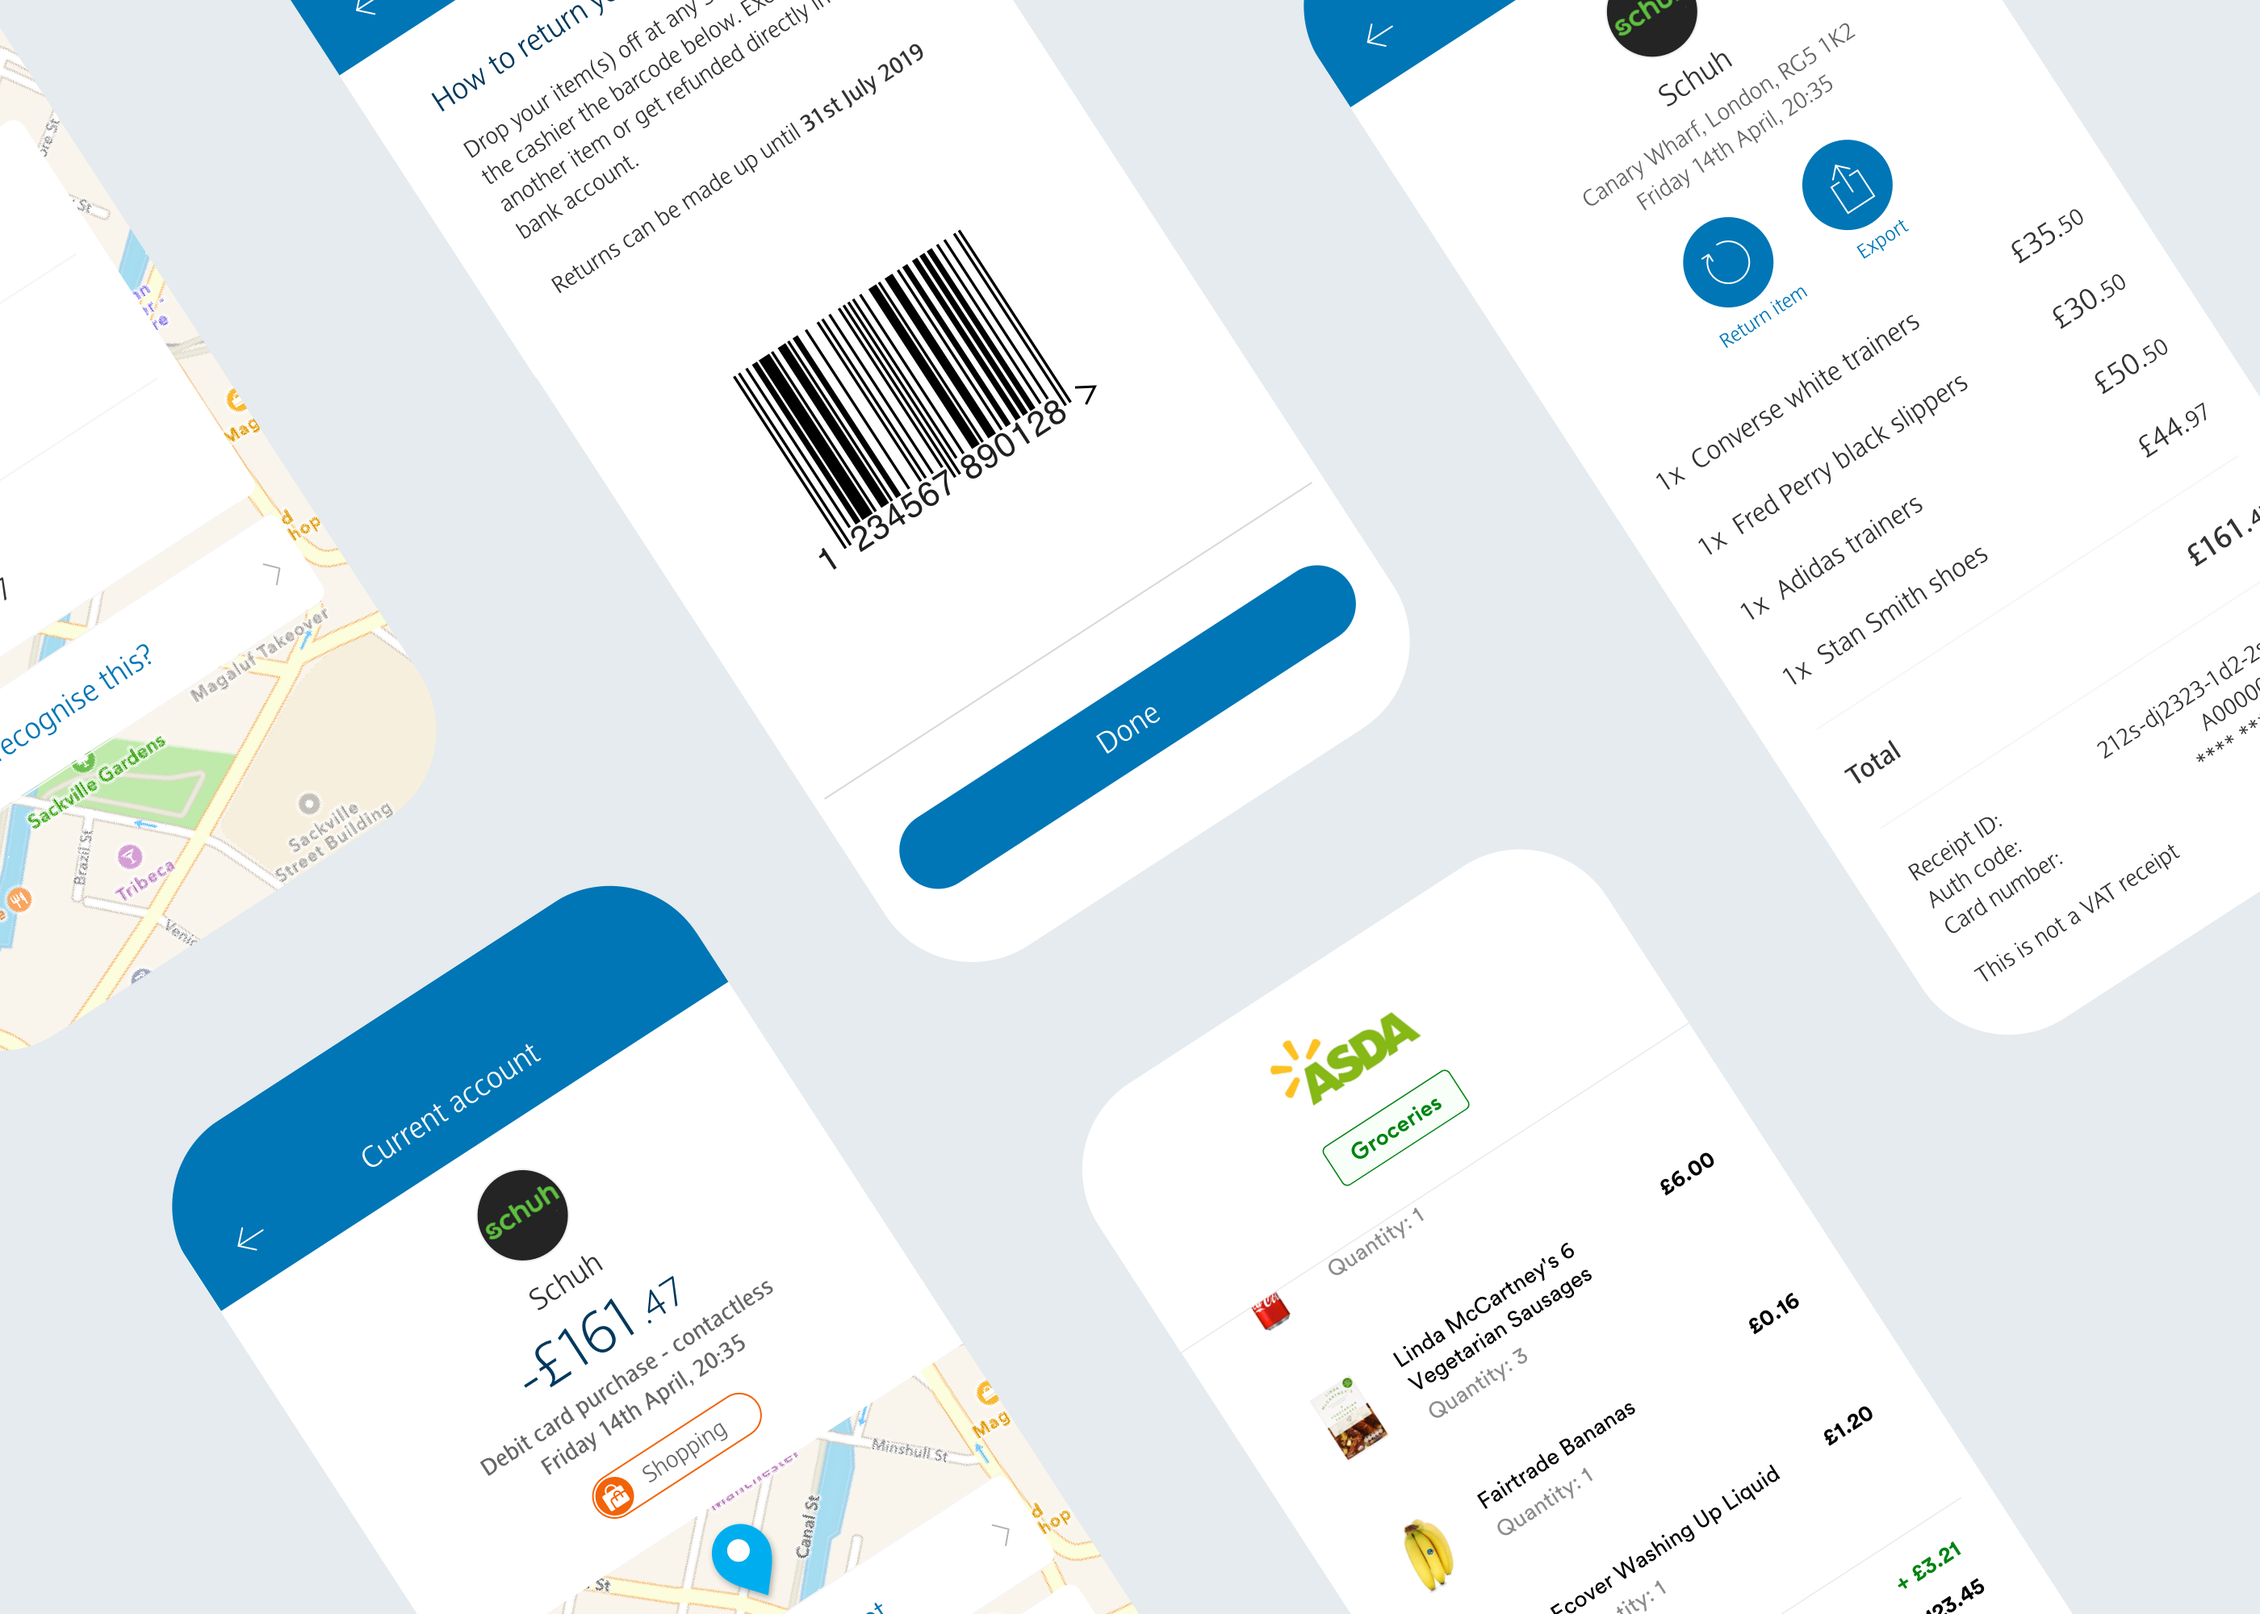
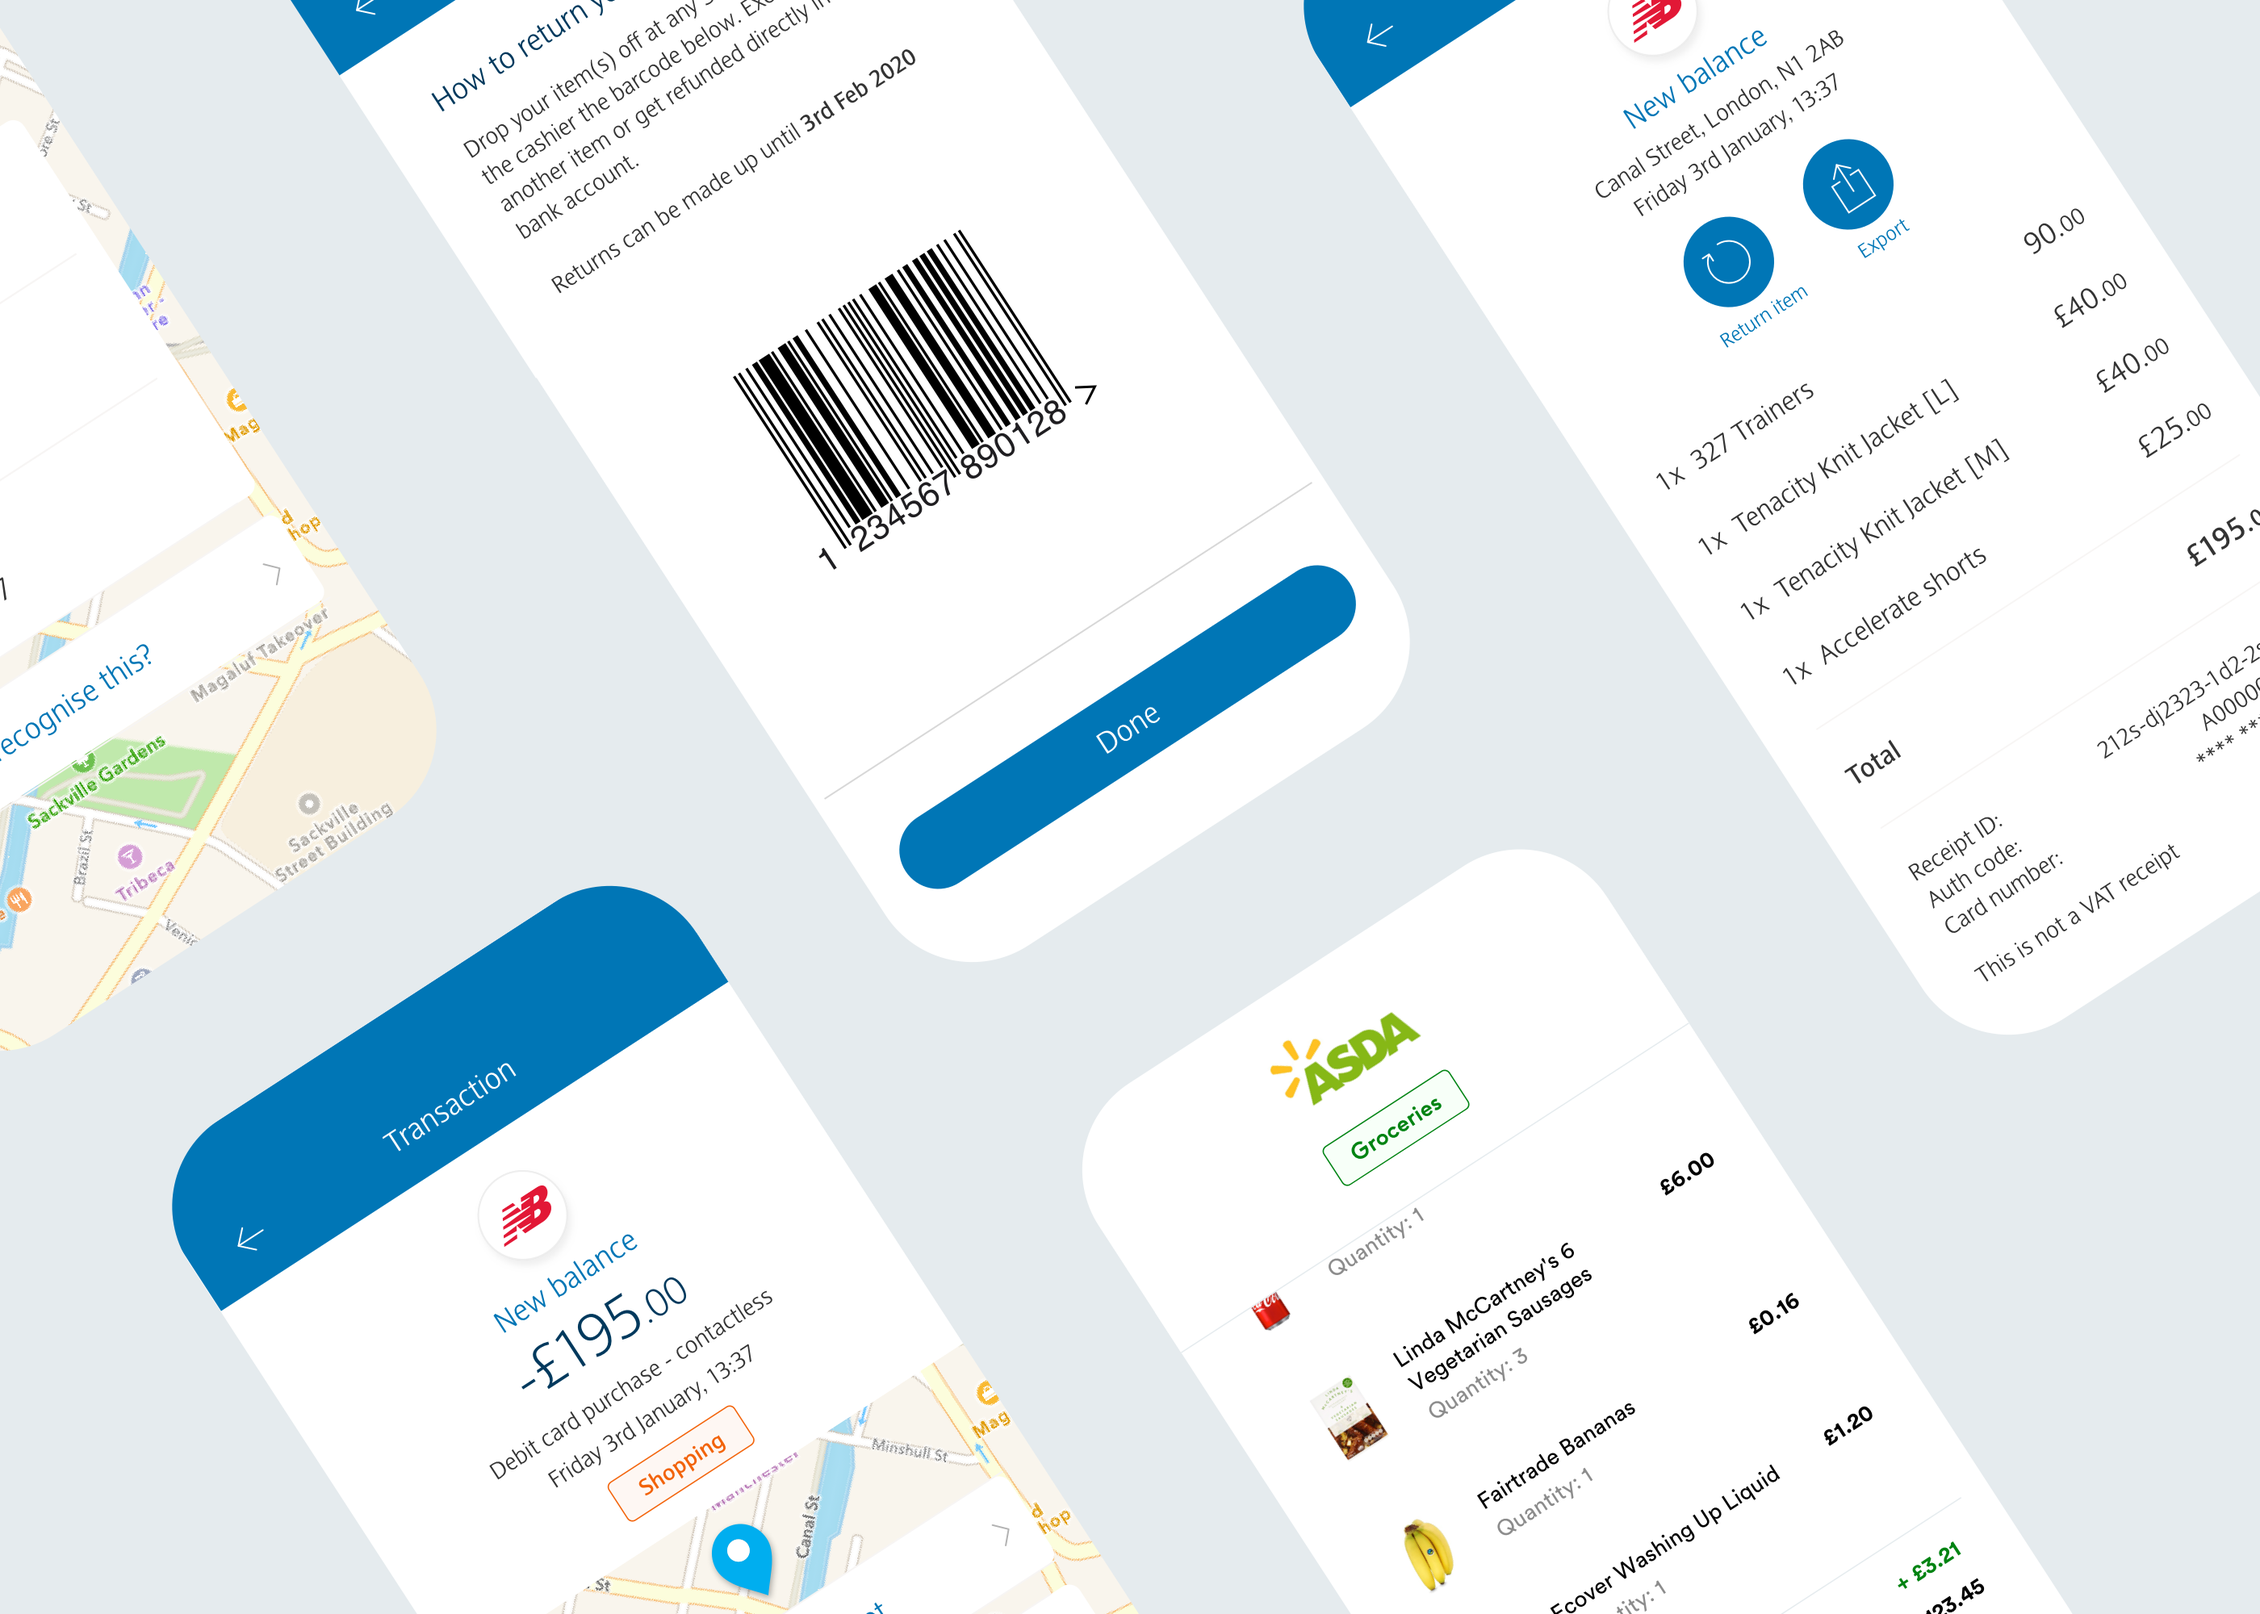
receipts update

diff --git a/receipts.html b/receipts.html
@@ -52,7 +52,7 @@
   <p>After sharing all of our ideas with the sprint team, I was asked to continue and start to think what extra information would be beneficial to the customer? Could we introduce insights or actions?</p>
 </div>
 <!-- original concepts -->
-<img class="hero" src="images/placeholder.svg" alt="">
+<img class="hero" src="images/first-draft.png" alt="">
 
 
 <!-- customer testing -->
@@ -84,7 +84,7 @@
 </div>
 
 <!-- live designs -->
-<img class="hero" src="images/placeholder.svg" alt="">
+<img class="hero" src="images/iterate.png" alt="">
 
 
 <!-- Sign off -->
@@ -105,9 +105,25 @@
 
 <!-- Beta Launch -->
 <div class="content-indented">
-  <h4>Next?</h4>
+  <h4>Post launch</h4>
   <p>After a succesful beta launch, digital receipts is now available to all Barclays customers. The analytics we're already receving are showing insights into... I've also ran a GV sprint entirely dedicated on the next release to see what else we can do.</p>
-  <p>APP STORE REVIEWS</p>
+</div>
+
+
+<div class="row logo-group">
+
+  <div class="col-4" align="center">
+    <img src="images/receipt-review-1.svg" alt="">
+  </div>
+
+  <div class="col-4" align="center">
+    <img src="images/receipt-review-1.svg" alt="">
+  </div>
+
+  <div class="col-4" align="center">
+    <img src="images/receipt-review-1.svg" alt="">
+  </div>
+
 </div>
 
   </body>
